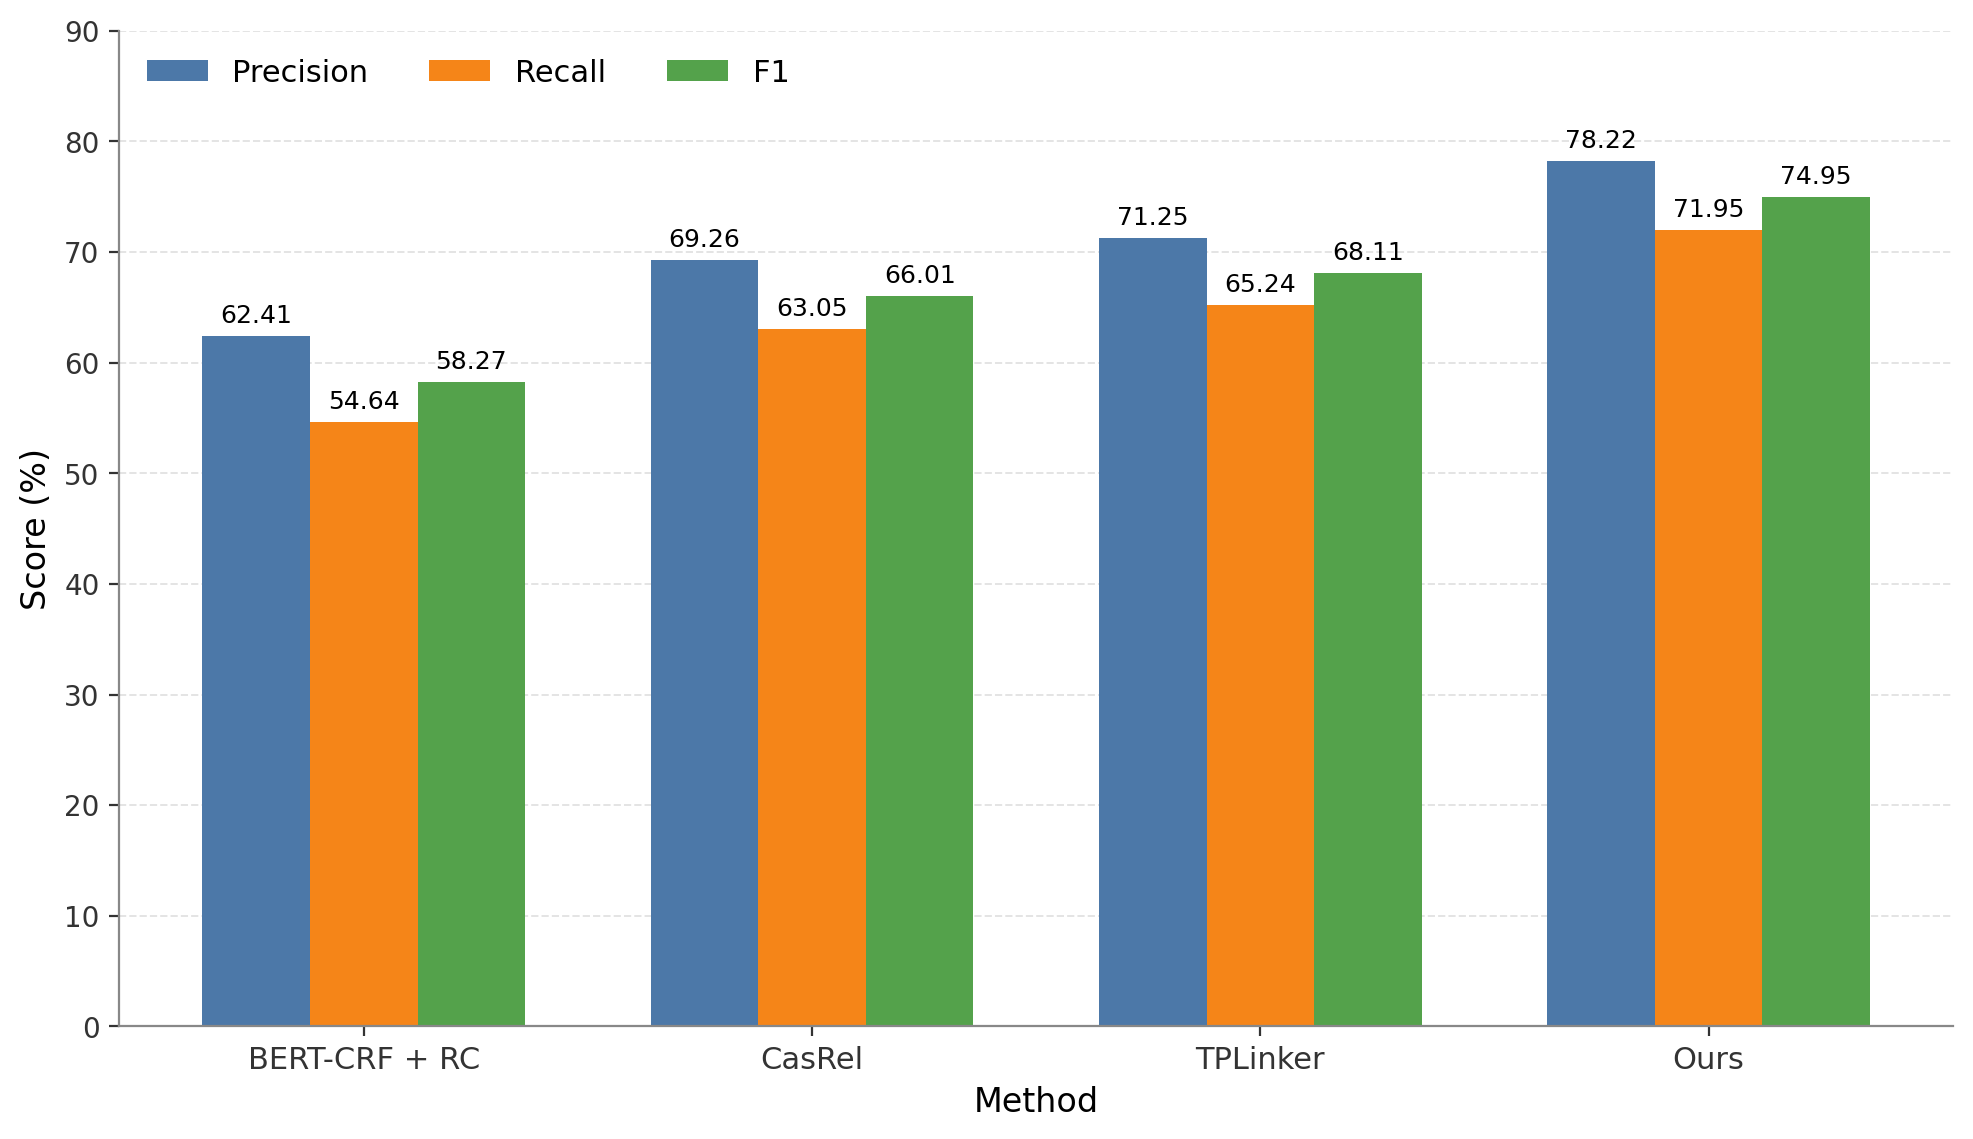
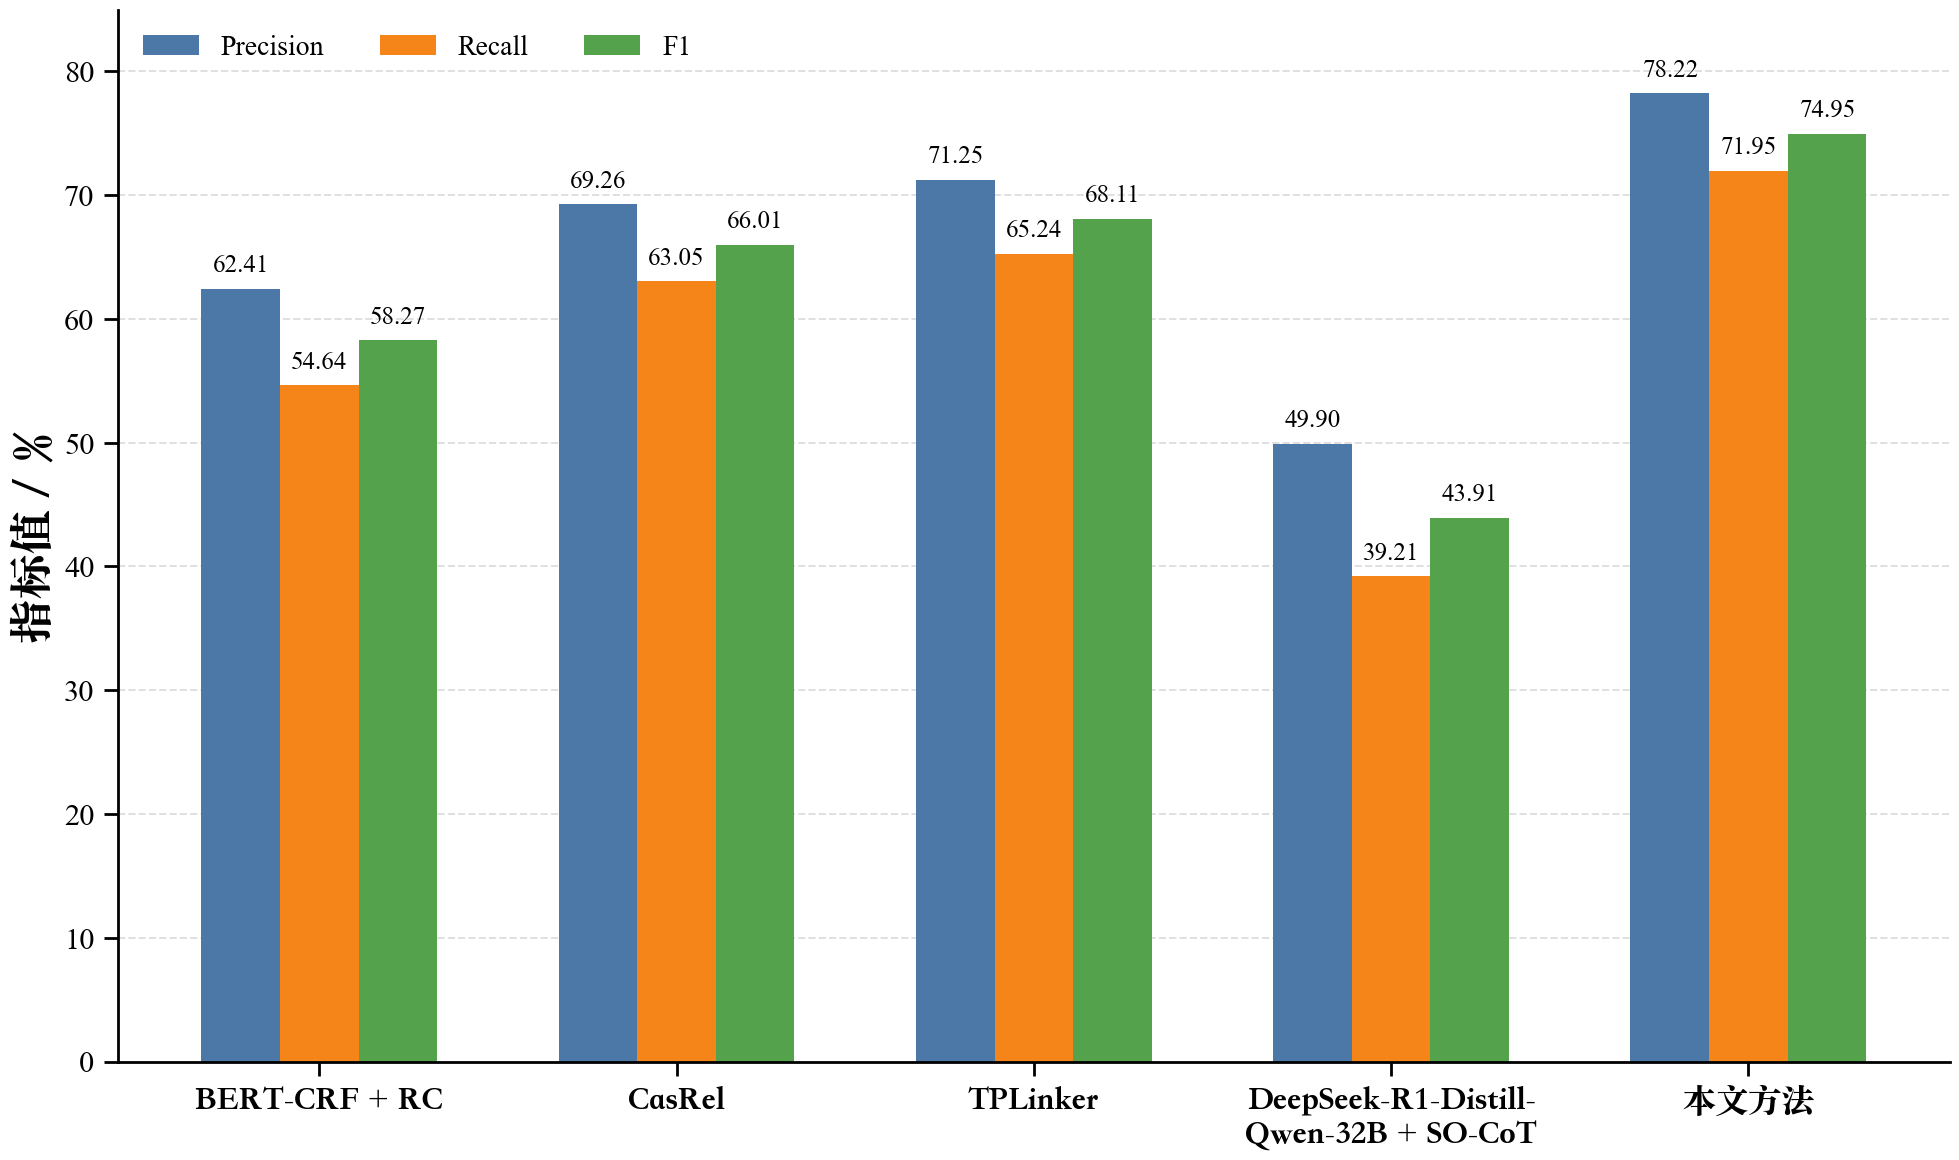
修改导师意见

diff --git a/chapters/abstract.tex b/chapters/abstract.tex
@@ -4,12 +4,12 @@
 %%
 
 \begin{abstract}
-  面向垂直领域知识图谱构建的知识抽取任务，既要解决领域标注数据稀缺、自动标注噪声较高的问题，又要兼顾抽取结果的结构可控性与本地部署可行性。针对这一需求，本文以军事新闻领域为实例，围绕“数据构建—可控抽取—图谱应用”三条链路开展研究，提出了一套面向领域知识图谱构建的高质量可控知识抽取方法。首先，面向高质量训练数据获取困难的问题，构建了基于 SO-CoT 自优化与多模型事实评估的银标数据生成流程，通过少量种子样本、自反馈提示优化、事实评估与回流重抽，提升自动标注结果的可解析性、事实性与合规性，最终形成包含 10647 份军事新闻报道和 40565 个实体关系三元组的领域银标数据集。其次，面向轻量化本地部署场景，提出参数高效的本体约束知识抽取方法，以小参数开源模型为基座，结合 QLoRA 完成领域适配，并在推理阶段引入本体约束与多候选结果评分机制，提高抽取结果的结构合法性与稳定性。在 1000 条测试样本上的实验表明，完整方法的 F1 值达到 74.95\%，优于 QLoRA-only 及若干主流实体关系抽取基线，且新增开销主要集中在推理后处理阶段，具备较好的工程可行性。最后，基于上述方法设计并实现了军事新闻领域知识图谱构建与问答原型系统，完成了从文本导入、知识抽取、结果修订、图谱入库到基础查询与简单问答的全流程验证。系统在 1000 条输入文本上构建出 4546 个节点、6017 条关系的知识图谱，验证了本文方法在稳定入库与下游应用中的有效性。研究结果表明，本文方法能够较好地兼顾训练数据质量、抽取结果可控性与本地部署需求，为面向新闻领域知识图谱构建的知识抽取研究提供了一条较完整、可落地的技术路径。
+  面向垂直领域知识图谱构建的知识抽取任务，既要解决领域标注数据稀缺、自动标注噪声较高的问题，又要兼顾抽取结果的结构可控性与本地部署可行性。针对这一需求，本文以军事新闻领域为实例，围绕“数据构建—可控抽取—图谱应用”三条链路开展研究，提出了一套面向领域知识图谱构建的高质量可控知识抽取方法。首先，面向高质量训练数据获取困难的问题，构建了基于 SO-CoT 自优化与多模型事实评估的银标数据生成流程，通过少量种子样本、自反馈提示优化、事实评估与回流重抽，提升自动标注结果的可解析性、事实性与合规性，最终形成包含 10647 份军事新闻报道和 40565 个实体关系三元组的领域银标数据集。其次，面向轻量化本地部署场景，提出参数高效的本体约束知识抽取方法，以小参数开源模型为基座，结合 QLoRA 完成领域适配，并在推理阶段引入本体约束与多候选结果评分机制，提高抽取结果的结构合法性与稳定性。在 1000 条测试样本上的实验表明，完整方法的 F1 值达到 74.95\%，优于同等规模大语言模型提示式抽取、QLoRA-only 及若干主流实体关系抽取基线，且新增开销主要集中在推理后处理阶段，具备较好的工程可行性。最后，基于上述方法设计并实现了军事新闻领域知识图谱构建与问答原型系统，完成了从文本导入、知识抽取、结果修订、图谱入库到基础查询与简单问答的全流程验证。系统在 1000 条输入文本上构建出 4546 个节点、6017 条关系的知识图谱，验证了本文方法在稳定入库与下游应用中的有效性。研究结果表明，本文方法能够较好地兼顾训练数据质量、抽取结果可控性与本地部署需求，为面向新闻领域知识图谱构建的知识抽取研究提供了一条较完整、可落地的技术路径。
 \end{abstract}
 
 % 如需手动控制换行连字符位置，可写 aa\-bb，详见
 % https://bithesis.bitnp.net/faq/hyphen.html
 
 \begin{abstractEn}
-  Knowledge extraction for vertical-domain knowledge graph construction must address not only the scarcity of domain-specific annotated data and the noise in automatic annotation, but also the controllability of extracted structures and the feasibility of local deployment. To this end, this thesis takes military news as a case study and investigates the problem along three linked stages: data construction, controllable extraction, and knowledge graph application. A high-quality and controllable knowledge extraction method for domain knowledge graph construction is proposed. First, to address the difficulty of obtaining high-quality training data, a silver-standard data construction pipeline based on SO-CoT self-optimization and multi-model factual evaluation is designed. Through a small set of seed samples, self-feedback prompt optimization, factual assessment, and iterative re-extraction, the proposed method improves the parsability, factual consistency, and schema compliance of automatically generated annotations, and finally builds a domain silver-standard dataset containing 10,647 military news reports and 40,565 entity-relation triples. Second, for lightweight local deployment, a parameter-efficient ontology-constrained knowledge extraction method is proposed. A small open-source model is adapted to the target domain with QLoRA, and ontology constraints together with a multi-candidate scoring mechanism are introduced at inference time to improve the structural validity and stability of extracted results. Experiments on 1,000 test samples show that the complete method achieves an F1 score of 74.95, outperforming the QLoRA-only baseline without constraints, while the additional cost is mainly introduced in the post-inference stage, indicating good engineering feasibility. Finally, based on the proposed methods, a military news domain knowledge graph construction and question-answering prototype system is designed and implemented, completing the full workflow from text import, knowledge extraction, and result revision to graph storage, basic query, and simple question answering. On 1,000 input texts, the system constructs a knowledge graph containing 4,546 nodes and 6,017 relations, which verifies the effectiveness of the proposed method in stable graph insertion and downstream application. The results show that the proposed approach can effectively balance training data quality, extraction controllability, and local deployment requirements, and provides a relatively complete and practical technical path for knowledge extraction in news-domain knowledge graph construction.
+  Knowledge extraction for vertical-domain knowledge graph construction must address not only the scarcity of domain-specific annotated data and the noise in automatic annotation, but also the controllability of extracted structures and the feasibility of local deployment. To this end, this thesis takes military news as a case study and investigates the problem along three linked stages: data construction, controllable extraction, and knowledge graph application. A high-quality and controllable knowledge extraction method for domain knowledge graph construction is proposed. First, to address the difficulty of obtaining high-quality training data, a silver-standard data construction pipeline based on SO-CoT self-optimization and multi-model factual evaluation is designed. Through a small set of seed samples, self-feedback prompt optimization, factual assessment, and iterative re-extraction, the proposed method improves the parsability, factual consistency, and schema compliance of automatically generated annotations, and finally builds a domain silver-standard dataset containing 10,647 military news reports and 40,565 entity-relation triples. Second, for lightweight local deployment, a parameter-efficient ontology-constrained knowledge extraction method is proposed. A small open-source model is adapted to the target domain with QLoRA, and ontology constraints together with a multi-candidate scoring mechanism are introduced at inference time to improve the structural validity and stability of extracted results. Experiments on 1,000 test samples show that the complete method achieves an F1 score of 74.95, outperforming the same-scale LLM prompt-based extraction baseline, the QLoRA-only baseline without constraints, and several mainstream entity-relation extraction baselines, while the additional cost is mainly introduced in the post-inference stage, indicating good engineering feasibility. Finally, based on the proposed methods, a military news domain knowledge graph construction and question-answering prototype system is designed and implemented, completing the full workflow from text import, knowledge extraction, and result revision to graph storage, basic query, and simple question answering. On 1,000 input texts, the system constructs a knowledge graph containing 4,546 nodes and 6,017 relations, which verifies the effectiveness of the proposed method in stable graph insertion and downstream application. The results show that the proposed approach can effectively balance training data quality, extraction controllability, and local deployment requirements, and provides a relatively complete and practical technical path for knowledge extraction in news-domain knowledge graph construction.
 \end{abstractEn}

diff --git a/misc/1_conclusion.tex b/misc/1_conclusion.tex
@@ -5,7 +5,7 @@
 
 \begin{conclusion}
 
-本文围绕面向垂直领域知识图谱构建的高质量可控知识抽取问题，针对领域标注数据稀缺、抽取结果难以稳定入库以及本地部署成本较高等实际困难，构建了一条贯通“数据—抽取—应用”的完整技术路线，并以军事新闻领域为实例完成了方法设计、实验验证和系统实现。研究结果表明，现如今，知识抽取的关键已不再只是能否抽取的问题，而在于能否同时兼顾训练数据质量、结果结构合法性、部署可行性和下游可用性。围绕这一目标，本文首先提出了基于 SO-CoT 自优化与多模型事实评估的银标数据构建方法，通过提示自优化、事实校验与回流纠错，形成了包含 10647 份军事新闻报道和 40565 个实体关系三元组的领域银标数据集；进一步地，提出了面向轻量化本地部署的参数高效本体约束知识抽取方法，将 QLoRA 领域适配、本体约束和多候选评分统一纳入同一流程，在 1000 条测试样本上的 F1 达到 74.95\%；最后，完成了知识图谱构建与问答原型系统实现，在 1000 条输入文本上构建出 4546 个节点、6017 条关系的领域知识图谱，验证了本文方法在稳定入库、基础查询和简单问答场景中的有效性。
+本文围绕面向垂直领域知识图谱构建的高质量可控知识抽取问题，针对领域标注数据稀缺、抽取结果难以稳定入库以及本地部署成本较高等实际困难，构建了一条贯通“数据—抽取—应用”的完整技术路线，并以军事新闻领域为实例完成了方法设计、实验验证和系统实现。研究结果表明，现如今，知识抽取的关键已不再只是能否抽取的问题，而在于能否同时兼顾训练数据质量、结果结构合法性、部署可行性和下游可用性。围绕这一目标，本文首先提出了基于 SO-CoT 自优化与多模型事实评估的银标数据构建方法，通过提示自优化、事实校验与回流纠错，形成了包含 10647 份军事新闻报道和 40565 个实体关系三元组的领域银标数据集；进一步地，提出了面向轻量化本地部署的参数高效本体约束知识抽取方法，将 QLoRA 领域适配、本体约束和多候选评分统一纳入同一流程，实验结果表明该方法在 1000 条测试样本上的 F1 达到 74.95\%，优于传统实体关系抽取基线和同等规模大语言模型提示式抽取基线，说明其性能提升主要来自领域适配与可控抽取机制的协同设计，而非单纯依赖大语言模型通用能力；最后，完成了知识图谱构建与问答原型系统实现，在 1000 条输入文本上构建出 4546 个节点、6017 条关系的领域知识图谱，验证了本文方法在稳定入库、基础查询和简单问答场景中的有效性。
 
 本文的创新性主要体现在三个方面。第一，本文将高质量银标数据构建从训练后的清洗补救前移为训练前的核心前提，通过 Teacher 端闭环机制把数据质量控制前置，缓解了垂直领域人工标注成本高、自动标注噪声大的问题。第二，本文在 Student 端将小参数模型、QLoRA、本体约束和多候选选择协同设计，使模型不仅具备领域适配能力，而且具备更好的结构合法性和稳定入库能力。第三，本文没有将研究停留在句子级抽取指标上，而是将知识图谱构建和下游问答验证纳入整体评估，使方法评价从单一精度提升扩展到工程可用性与知识服务能力，更贴近真实场景中的领域知识组织需求。
 

diff --git a/main.tex b/main.tex
@@ -68,8 +68,8 @@
     degreeType = professional,
     industrialMentor = ,  % 行业合作导师
     industrialMentorEn = ,
-    degree = 电子信息硕士,  % 申请类别
-    degreeEn = {Master of Electronic Information},
+    degree = 电子信息,  % 申请类别
+    degreeEn = {Electronic and Information Engineering},
     major = 计算机技术,  % 学位领域
     majorEn = Computer Technology,
     % -------------

diff --git a/第五章实验结果原始数据.md b/第五章实验结果原始数据.md
@@ -5,9 +5,9 @@
 ## 主结果总表，核心对比：Base vs QLoRA-only vs QLoRA+多候选评分（完整方法）
 | 方法组 | 方法说明 | 测试样本数 | 测试集金标三元组数 | 预测三元组总数 | TP | FP | FN | Precision | Recall | F1 | 备注 | ΔF1 vs Base | ΔF1 vs QLoRA-only | Δ合规率 vs QLoRA-only | Δ一致率 vs QLoRA-only |
 | --- | --- | --- | --- | --- | --- | --- | --- | --- | --- | --- | --- | --- | --- | --- | --- |
-| Base | 未微调基座模型；不启用本体约束与多候选评分 | 1000 | 6124 | 2666 | 872 | 1794 | 5252 | 0.327082 | 0.142391 | 0.198407 |  |  |  |  |  |
-| QLoRA-only | 仅进行 QLoRA 领域微调；直接单次生成 | 1000 | 6124 | 5579 | 4219 | 1360 | 1905 | 0.756229 | 0.688929 | 0.721012 |  | 0.522605 |  | 0.000000 | 0.000000 |
-| QLoRA+多候选评分 | QLoRA 微调 + 多候选生成 + 本体约束 + 综合评分 | 1000 | 6124 | 5633 | 4406 | 1227 | 1718 | 0.782176 | 0.719464 | 0.749511 |  | 0.551104 | 0.028499 | 0.023000 | 0.030000 |
+| Base | 未微调基座模型；不启用本体约束与多候选评分 | 1000 | 6124 | 4590 | 2168 | 2422 | 3956 | 0.472331 | 0.354017 | 0.404704 |  |  |  |  |  |
+| QLoRA-only | 仅进行 QLoRA 领域微调；直接单次生成 | 1000 | 6124 | 5579 | 4219 | 1360 | 1905 | 0.756229 | 0.688929 | 0.721012 |  | 0.316308 |  | 0.000000 | 0.000000 |
+| QLoRA+多候选评分 | QLoRA 微调 + 多候选生成 + 本体约束 + 综合评分 | 1000 | 6124 | 5633 | 4406 | 1227 | 1718 | 0.782176 | 0.719464 | 0.749511 |  | 0.344807 | 0.028499 | 0.023000 | 0.030000 |
 
 ### 训练与部署成本
 | 方法组 | 训练耗时(h) | 训练峰值显存(GB) | 单样本平均推理耗时(ms) | 吞吐(samples/s) | 平均输入tokens | 平均输出tokens | 推理峰值显存(GB) | 评分/重排序附加耗时(ms) |
@@ -53,4 +53,3 @@
 | Qwen3-32B                    |  32B | 通用基座模型  |     0.771 |  0.707 | 0.738 |     93.6 |    97.9 |         13.2 |     92.6 | 综合性能接近 32B 蒸馏模型，但稳定性略低 |
 | DeepSeek-R1-Distill-Qwen-32B |  32B | 蒸馏推理模型  |     0.782 |  0.719 | 0.750 |     94.5 |    98.4 |         13.8 |     93.4 | 完整流程下表现最优              |
 | DeepSeek-R1-Distill-Qwen-7B  |   7B | 蒸馏推理模型  |     0.691 |  0.602 | 0.643 |     90.1 |    95.9 |          9.0 |     30.8 | 资源优势明显，但复杂关系覆盖能力下降     |
-
